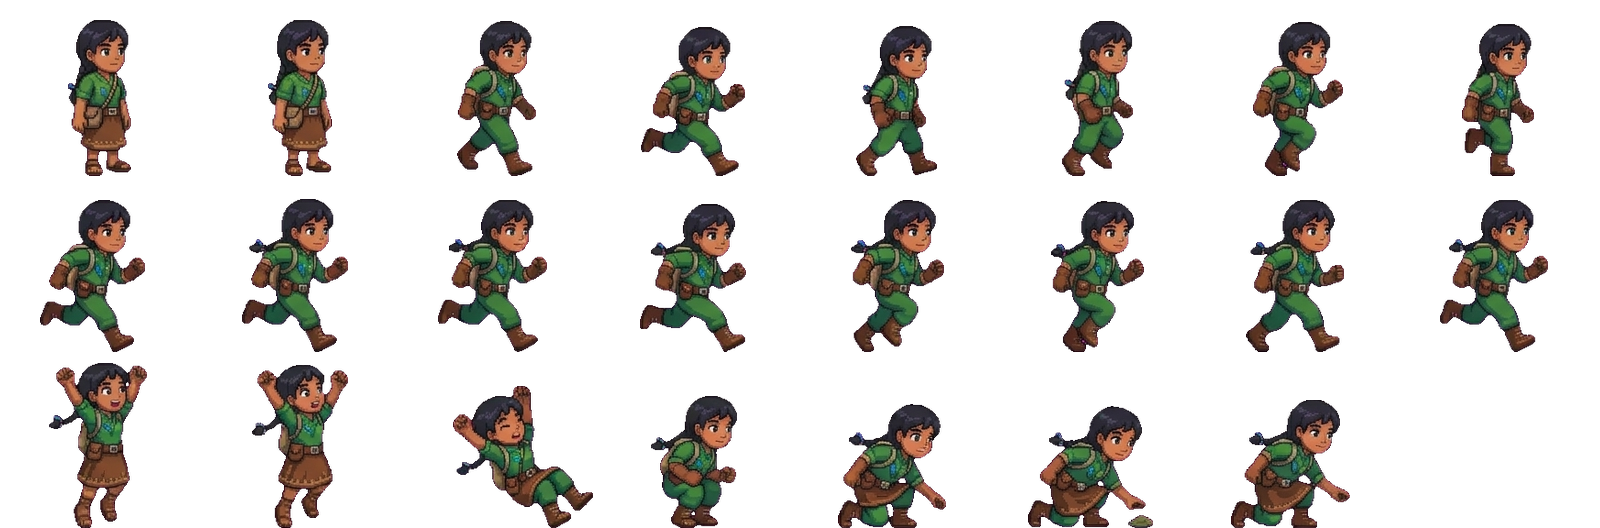
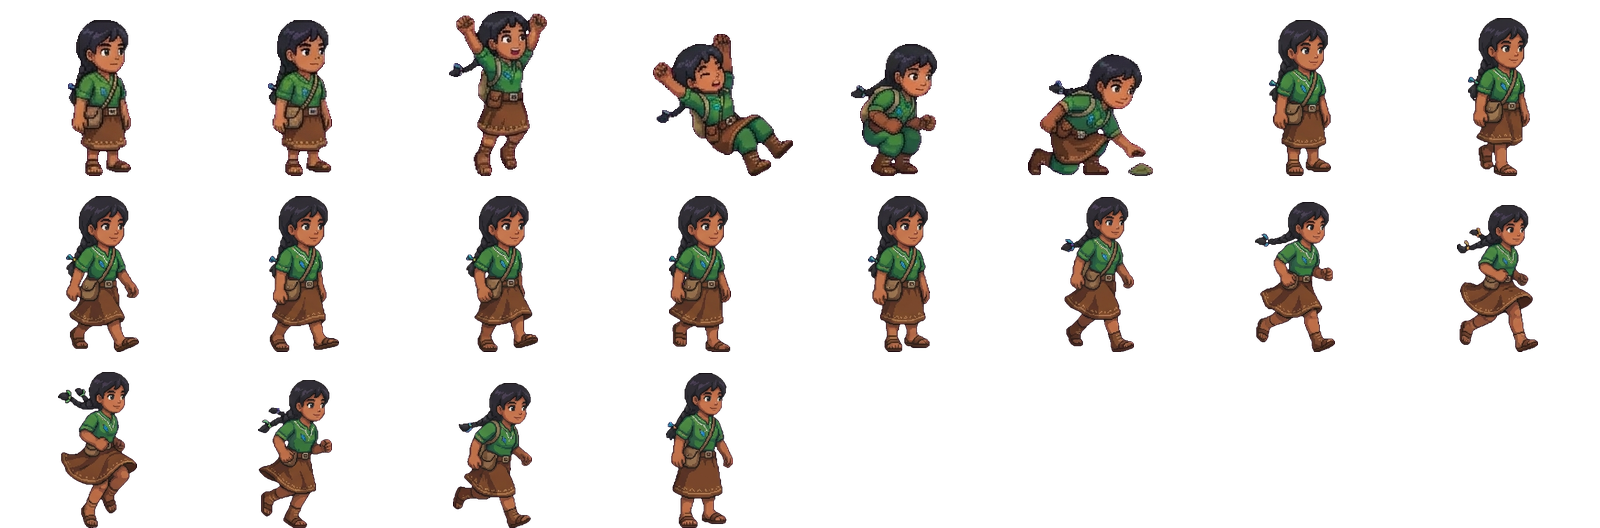
fix: la niña camina y corre con su falda y sandalias
Se integra la hoja corregida de caminar/correr (7 cuadros cada una) y el
atlas guarda solo los cuadros que se usan.

diff --git a/tools/arte/procesar.py b/tools/arte/procesar.py
@@ -99,22 +99,32 @@ def personaje_aereo(fuente: str, carpeta: str, nombre: str, idle: dict[str, int]
 
 def nina_plataformas() -> None:
     """Hoja lateral de la niña para los niveles de plataformas (mismo formato que la de Gara)."""
-    rgba = quitar_fondo(cargar("nina_plataformas.jpg"))
-    cuadros = [recortar(rgba, o) for o in separar_objetos(rgba)]
-    # Misma estatura que el niño en su atlas (~156 px de pie).
-    factor = 156 / cuadros[0].height
-    cuadros = [c.resize((round(c.width * factor), round(c.height * factor)), Image.Resampling.LANCZOS) for c in cuadros]
-    construir_atlas(
-        cuadros,
-        {
+    def cuadros_de(fuente: str) -> list[Image.Image]:
+        rgba = quitar_fondo(cargar(fuente))
+        cuadros = [recortar(rgba, o) for o in separar_objetos(rgba)]
+        # Cada hoja viene a otra escala: se lleva a la estatura del niño (~156 px de pie).
+        factor = 156 / cuadros[0].height
+        return [c.resize((round(c.width * factor), round(c.height * factor)), Image.Resampling.LANCZOS) for c in cuadros]
+
+    # Hoja base (quieta, saltar, caer, agacharse, recoger) + hoja corregida de caminar y correr
+    # (en la base esas filas salieron con la ropa del niño). Índices 23-29: caminar, 30-36: correr.
+    cuadros = cuadros_de("nina_plataformas.jpg") + cuadros_de("nina_plataformas_correr.jpg")
+    animaciones = {
             "idle": ([0, 1], 2.0, True),
-            "caminar": ([2, 3, 4, 5, 6, 7, 8], 10.0, True),
-            "correr": ([9, 10, 11, 12, 13, 14, 15], 12.0, True),
+            "caminar": ([23, 24, 25, 26, 27, 28, 29], 10.0, True),
+            "correr": ([30, 31, 32, 33, 34, 35, 36], 12.0, True),
             "saltar": ([16], 1.0, False),
             "caer": ([18], 1.0, False),
             "agachar": ([19], 1.0, False),
             "interactuar": ([21], 1.0, False),
-        },
+    }
+    # Solo los cuadros que se usan (las filas viejas de caminar/correr quedan fuera del atlas).
+    usados = sorted({i for indices, _, _ in animaciones.values() for i in indices})
+    nuevo = {orig: n for n, orig in enumerate(usados)}
+    animaciones = {k: ([nuevo[i] for i in v[0]], v[1], v[2]) for k, v in animaciones.items()}
+    construir_atlas(
+        [cuadros[i] for i in usados],
+        animaciones,
         # Celdas más anchas que las de Gara: el cuadro de caída es ancho y, centrado por el torso,
         # tocaría el borde con 160 px.
         (200, 176),

diff --git a/assets/fuente_ia/INVENTARIO.md b/assets/fuente_ia/INVENTARIO.md
@@ -47,13 +47,13 @@ Revisado el 16 de octubre de 2026. ✅ listo para integrar · ⚠ usable con 
 | Archivo | Contenido | Estado |
 |---|---|---|
 | `npc_aldeana_aerea.jpg` | Ahora es **la niña jugable** en el valle | ✅ |
-| `nina_plataformas.jpg` | La niña de lado: quieta, caminar, correr, saltar, caer, agacharse, recoger | ⚠ En **caminar y correr** trae el overol y las botas del niño en vez de su falda y sandalias; regenerar esas dos filas |
+| `nina_plataformas.jpg` | La niña de lado: quieta, caminar, correr, saltar, caer, agacharse, recoger | ✅ Quieta, saltar, caer, agacharse y recoger (las filas de caminar/correr de esta hoja no se usan) |
+| `nina_plataformas_correr.jpg` | La niña caminando y corriendo con falda y sandalias | ✅ |
 
 ## Falta
 
 Del sprint 1 ya no falta nada imprescindible. Solo, si se quiere uniformidad:
 - 🟡 Don Chucho de pie (de lado) con el diseño nuevo.
-- 🔴 Filas de caminar y correr de la niña con su falda y sandalias.
 
 ## Notas para la próxima tanda
 - La mayoría vino como **JPG**; si la herramienta permite PNG, mejor. Con JPG también funciona.
